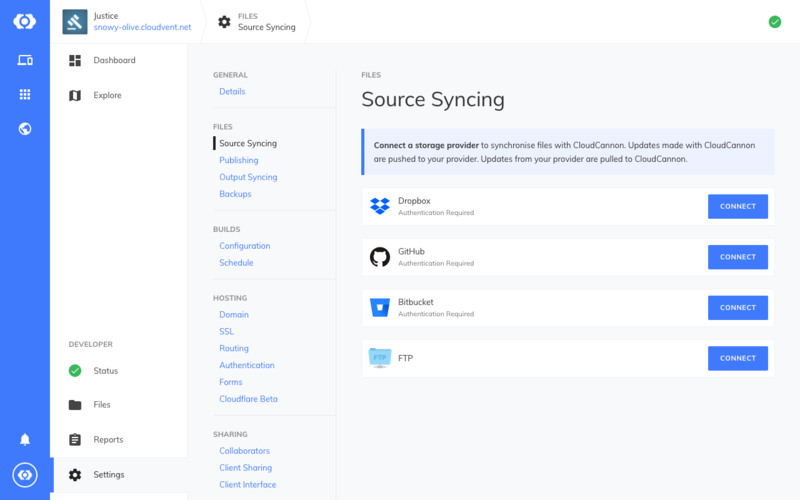
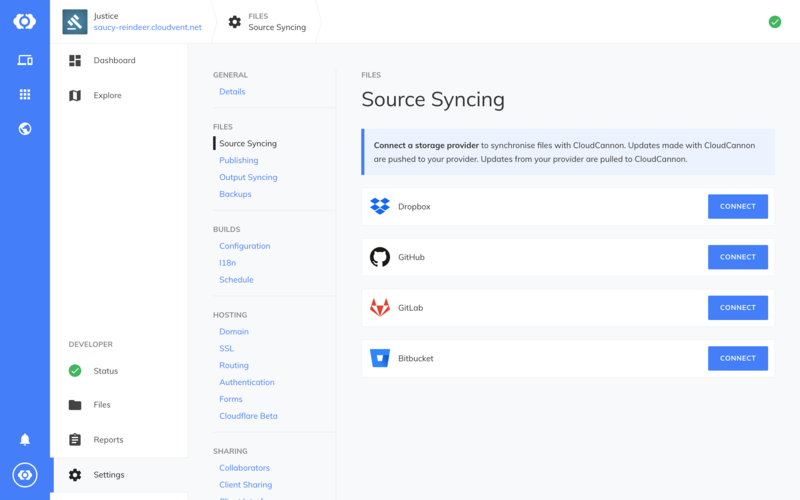
GitLab docs

diff --git a/src/collections/_file_docs/source-syncing/gitlab.md b/src/collections/_file_docs/source-syncing/gitlab.md
@@ -1,0 +1,24 @@
+---
+title: GitLab
+category: Source Syncing
+order: 4
+---
+
+Connecting GitLab allows you to work on your websites locally and have the changes sync to CloudCannon. File changes made on CloudCannon also get synced back to GitLab.
+
+To connect a GitLab repository and start syncing files, follow these instructions:
+
+Go to *Site Settings* / *Source Syncing* and click **Connect** next to GitLab.
+
+![Storage Providers interface](/images/files/source-syncing/storage-providers.png){: srcset="/images/files/source-syncing/storage-providers.png 800w, /images/files/source-syncing/storage-providers@2x.png 1600w"}{: .screenshot}
+
+This redirects you to GitLab. Log in and authorise CloudCannon access to your GitLab account.
+
+You'll be redirected back to CloudCannon to pick a repository to connect. If you don't have one for this website, create a new one in GitLab and refresh this page.
+
+> A dialog box warns you if there are existing files in your site. The files will be replaced with the contents of the repository. Click **Connect GitLab** to continue or close the dialog to cancel the process.
+{: .explainer .warning}
+
+GitLab is now connected. Changes you push to the Git repository are pulled in by CloudCannon. Any changes made on CloudCannon are automatically committed and pushed.
+
+![Storage Providers interface with GitLab connected](/images/files/source-syncing/gitlab/connected.png){: srcset="/images/files/source-syncing/gitlab/connected.png 800w, /images/files/source-syncing/gitlab/connected@2x.png 1600w"}{: .screenshot}

diff --git a/src/collections/_file_docs/source-syncing/bitbucket.md b/src/collections/_file_docs/source-syncing/bitbucket.md
@@ -5,8 +5,7 @@ order: 3
 ---
 
 > Mercurial repositories are not supported.
-{: .explainer}
-{: .warning}
+{: .explainer .warning}
 
 Connecting Bitbucket allows you to work on your websites locally and have the changes sync to CloudCannon. File changes made on CloudCannon also get synced back to Bitbucket.
 
@@ -21,8 +20,7 @@ This redirects you to Bitbucket. Log in and authorise CloudCannon access to your
 You'll be redirected back to CloudCannon to pick a repository to connect. If you don't have one for this website, create a new one in Bitbucket and refresh this page.
 
 > A dialog box warns you if there are existing files in your site. The files will be replaced with the contents of the repository. Click **Connect Bitbucket** to continue or close the dialog to cancel the process.
-{: .explainer}
-{: .warning}
+{: .explainer .warning}
 
 Bitbucket is now connected. Changes you push to the Git repository are pulled in by CloudCannon. Any changes made on CloudCannon are automatically committed and pushed.
 

diff --git a/src/collections/_file_docs/source-syncing/dropbox.md b/src/collections/_file_docs/source-syncing/dropbox.md
@@ -1,7 +1,7 @@
 ---
 title: Dropbox
 category: Source Syncing
-order: 4
+order: 5
 ---
 
 Connecting Dropbox allows you to work on your websites locally and have the changes sync to CloudCannon. File changes made on CloudCannon also get synced back to Dropbox.
